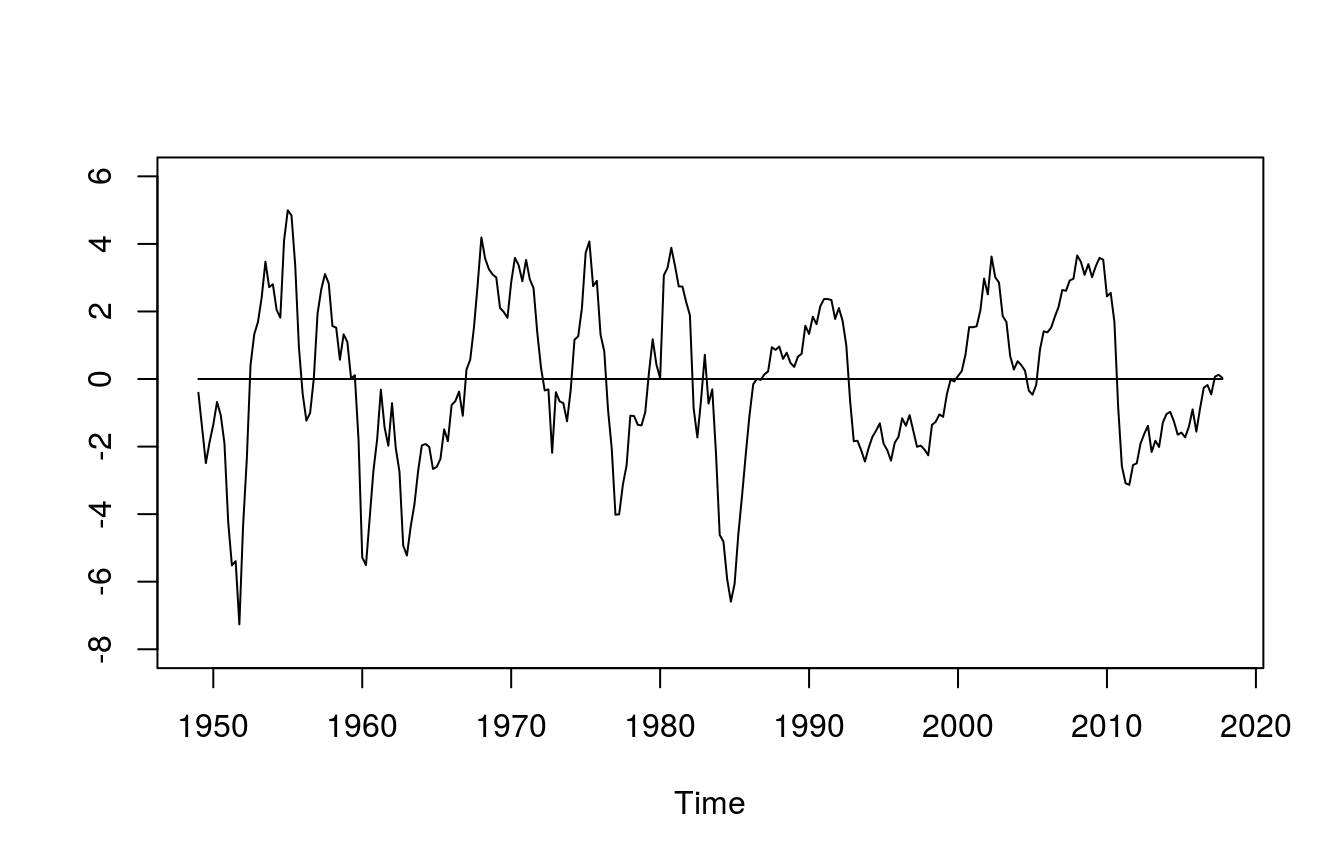
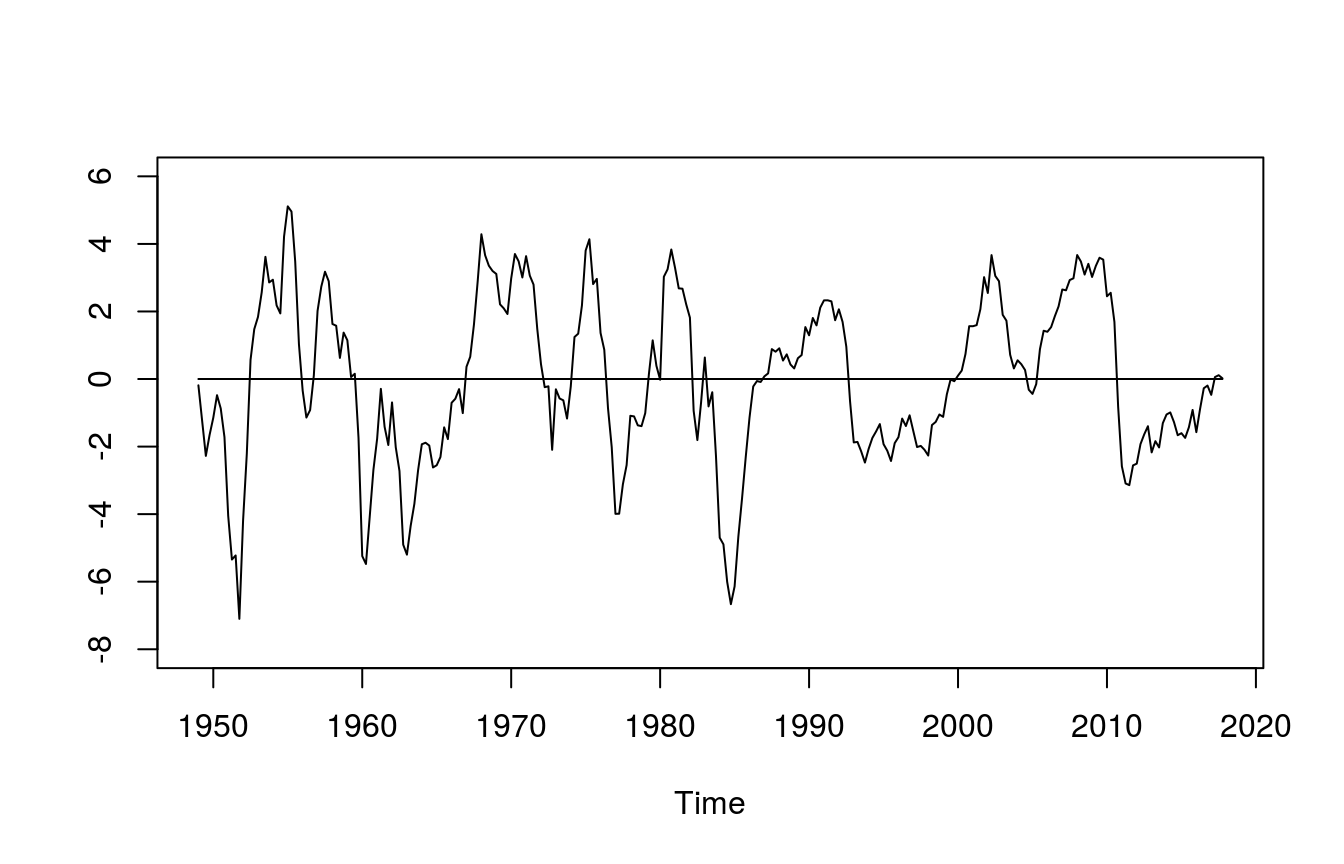
Update bayesmethodes18

diff --git a/public/reproduction/bayesmethods/bayesmethods18/index.html b/public/reproduction/bayesmethods/bayesmethods18/index.html
@@ -166,11 +166,11 @@ draws_tau &lt;- matrix(NA, tt, iterations - burnin)
 
 for (draw in 1:iterations) {
   # Draw trend
-  temp &lt;- chan_jeliazkov(y, z, sigma_i, H, q_i, tau0)
-  a &lt;- temp$a
+  a &lt;- chan_jeliazkov(y, z, sigma_i, H, q_i, tau0)
   
   # Draw measurement eq. variance
-  diag(sigma_i) &lt;- rgamma(1, shape = 3 + tt / 2, rate = 2 + tcrossprod(temp$u) / 2)
+  u &lt;- y - a[, -1]
+  diag(sigma_i) &lt;- rgamma(1, shape = 3 + tt / 2, rate = 2 + tcrossprod(u) / 2)
   
   # Draw transition eq. variance
   w &lt;- a[, -1] - matrix(a0, 1, tt)
@@ -187,7 +187,7 @@ for (draw in 1:iterations) {
     draws_tau[, draw - burnin] &lt;- a[, -1]
   }
 }</code></pre>
-<p>Plot estimated prior mean of tau.</p>
+<p>Plot estimated prior mean of tau</p>
 <pre class="r"><code>tau &lt;- apply(draws_tau, 1, mean) # Mean
 tau &lt;- cbind(c(y), tau) # Combine with original series
 tau &lt;- ts(tau, start = 1959, frequency = 4)
@@ -318,7 +318,7 @@ for (draw in 1:iterations) {
 mean_c &lt;- ts(mean_c, start = 1949, frequency = 4)
 plot(mean_c, plot.type = &quot;single&quot;, ylab = &quot;&quot;, ylim = c(-8, 6))</code></pre>
 <p><img src="/reproduction/bayesmethods/bayesmethods18_files/figure-html/unnamed-chunk-10-1.png" width="672" /></p>
-<p>Plot annualised trend growt</p>
+<p>Plot annualised trend growth</p>
 <pre class="r"><code>temp &lt;- apply(draws_tau, 2, diff) * 4
 mean_dtau &lt;- ts(apply(temp, 1, mean), start = 1949, frequency = 4)
 plot(mean_dtau, plot.type = &quot;single&quot;, ylim = c(1, 4.5), ylab = &quot;&quot;)</code></pre>

diff --git a/content/reproduction/bayesmethods/bayesmethods18.html b/content/reproduction/bayesmethods/bayesmethods18.html
@@ -62,11 +62,11 @@ draws_tau &lt;- matrix(NA, tt, iterations - burnin)
 
 for (draw in 1:iterations) {
   # Draw trend
-  temp &lt;- chan_jeliazkov(y, z, sigma_i, H, q_i, tau0)
-  a &lt;- temp$a
+  a &lt;- chan_jeliazkov(y, z, sigma_i, H, q_i, tau0)
   
   # Draw measurement eq. variance
-  diag(sigma_i) &lt;- rgamma(1, shape = 3 + tt / 2, rate = 2 + tcrossprod(temp$u) / 2)
+  u &lt;- y - a[, -1]
+  diag(sigma_i) &lt;- rgamma(1, shape = 3 + tt / 2, rate = 2 + tcrossprod(u) / 2)
   
   # Draw transition eq. variance
   w &lt;- a[, -1] - matrix(a0, 1, tt)
@@ -83,7 +83,7 @@ for (draw in 1:iterations) {
     draws_tau[, draw - burnin] &lt;- a[, -1]
   }
 }</code></pre>
-<p>Plot estimated prior mean of tau.</p>
+<p>Plot estimated prior mean of tau</p>
 <pre class="r"><code>tau &lt;- apply(draws_tau, 1, mean) # Mean
 tau &lt;- cbind(c(y), tau) # Combine with original series
 tau &lt;- ts(tau, start = 1959, frequency = 4)
@@ -214,7 +214,7 @@ for (draw in 1:iterations) {
 mean_c &lt;- ts(mean_c, start = 1949, frequency = 4)
 plot(mean_c, plot.type = &quot;single&quot;, ylab = &quot;&quot;, ylim = c(-8, 6))</code></pre>
 <p><img src="/reproduction/bayesmethods/bayesmethods18_files/figure-html/unnamed-chunk-10-1.png" width="672" /></p>
-<p>Plot annualised trend growt</p>
+<p>Plot annualised trend growth</p>
 <pre class="r"><code>temp &lt;- apply(draws_tau, 2, diff) * 4
 mean_dtau &lt;- ts(apply(temp, 1, mean), start = 1949, frequency = 4)
 plot(mean_dtau, plot.type = &quot;single&quot;, ylim = c(1, 4.5), ylab = &quot;&quot;)</code></pre>
